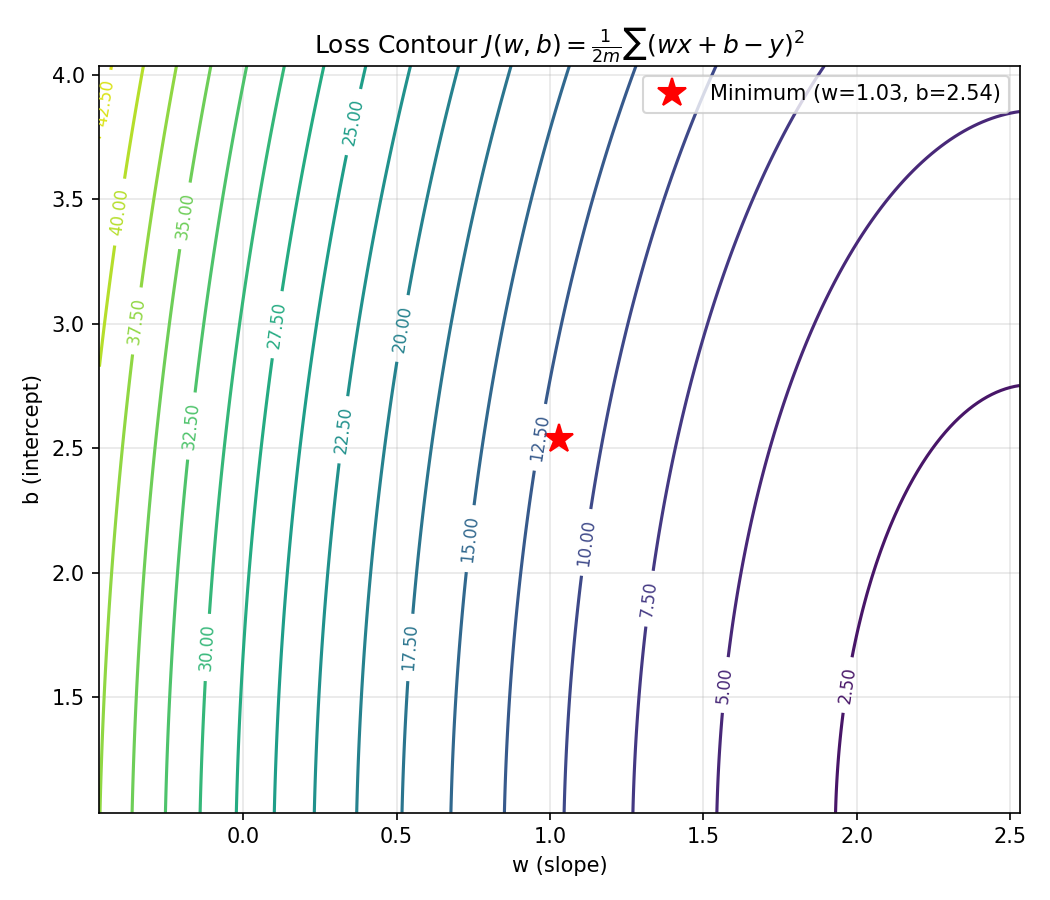
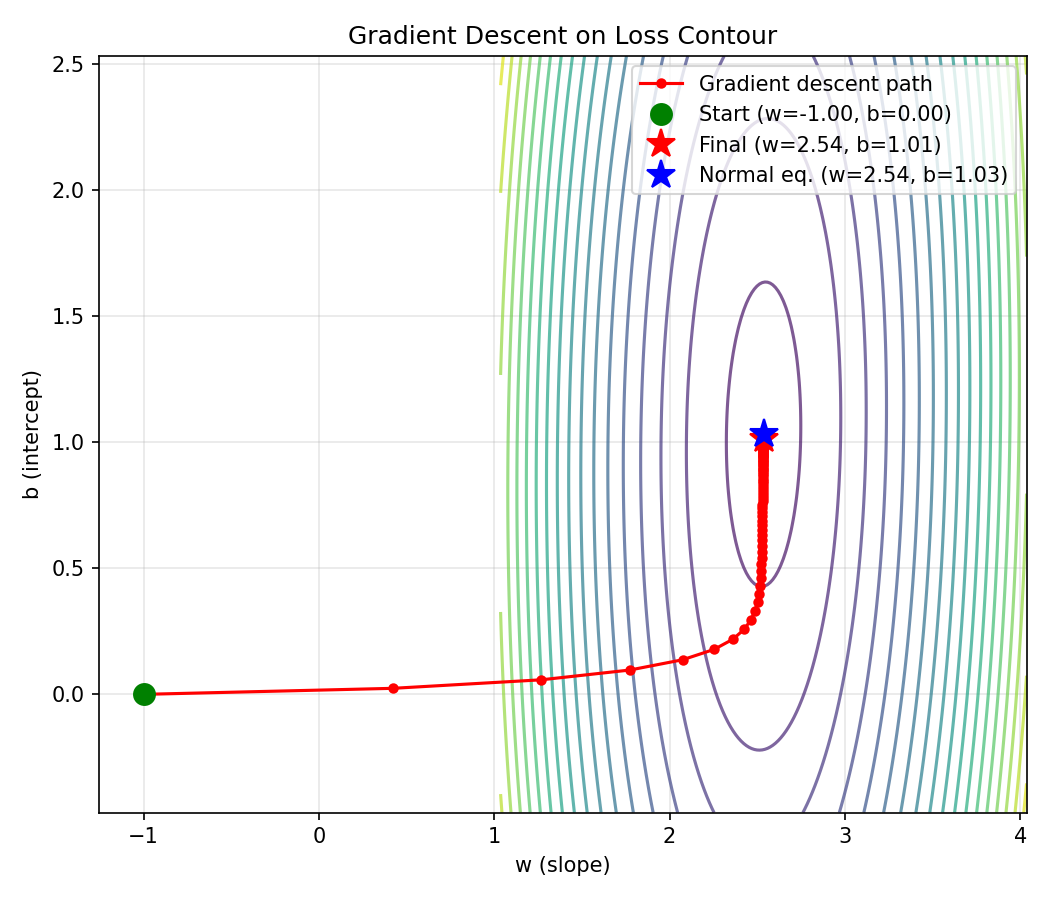
a03

Changed region(s): [[0.0, 0.0311, 1.0, 0.9956], [0.061, 0.1867, 0.0914, 0.2178]]

diff --git a/SimpleLinearRegression/Assignment03/linear_gradient_descent.py b/SimpleLinearRegression/Assignment03/linear_gradient_descent.py
@@ -8,13 +8,16 @@
 
 在完成作业一之后运行：python linear_gradient_descent.py
 """
-
+import os
 import numpy as np
 import pandas as pd
 import matplotlib.pyplot as plt
 
-CSV_PATH = "linear_regression_data.csv"
-FIG_PATH = "gradient_descent_contour.png"
+SCRIPT_DIR = os.path.dirname(os.path.abspath(__file__))
+DATA_DIR = os.path.join(SCRIPT_DIR, "..", "data") 
+#os.makedirs(DATA_DIR,exist_ok=True)
+CSV_PATH = os.path.join(DATA_DIR,"linear_regression_data.csv")
+FIG_PATH = os.path.join(DATA_DIR,"loss_contour.png")
 
 # 梯度下降超参数
 LEARNING_RATE = 0.05
@@ -31,7 +34,7 @@ def load_data(csv_path=CSV_PATH):
 def compute_loss(w, b, x, y):
     """计算 J(w, b) = (1 / 2m) * sum((w*x + b - y)^2)。"""
     # TODO：实现损失函数
-    raise NotImplementedError
+    return (np.sum((np.dot(x,w)+b-y)**2))/(2*x.shape[0])
 
 
 def normal_equation_solution(x, y):
@@ -48,7 +51,11 @@ def normal_equation_solution(x, y):
 def compute_gradients(w, b, x, y):
     """返回偏导数 (dJ/dw, dJ/db)。"""
     # TODO：自行推导并实现 J 对 w 和 b 的梯度
-    raise NotImplementedError
+    err=np.dot(x,w)+b-y
+
+    db=np.sum(err)/x.shape[0]
+    dw=x.T@(err)/x.shape[0]
+    return dw,db
 
 
 def gradient_descent(x, y, lr=LEARNING_RATE, n_iterations=N_ITERATIONS, init_w=INIT_W, init_b=INIT_B):
@@ -57,8 +64,9 @@ def gradient_descent(x, y, lr=LEARNING_RATE, n_iterations=N_ITERATIONS, init_w=I
 
     for _ in range(n_iterations):
         # TODO：计算 (w, b) 处的梯度，并执行一步梯度下降
-        pass
-
+        dw,db=compute_gradients(w,b,x,y)
+        w=w-lr*dw
+        b=b-lr*db
         history.append((w, b, compute_loss(w, b, x, y)))
 
     return w, b, history
@@ -75,7 +83,7 @@ def draw_contour_with_path(x, y, history, save_path=FIG_PATH):
 
     # TODO：在 (W, B) 上计算损失矩阵 Z，方法与作业二相同。
     #       请勿使用 Python 的 for 循环；请使用 NumPy 的广播机制。
-    Z = None  # 用你的代码替换此处
+    Z = (1/2)*np.mean((W[:,:,None]*x[None,None,:]+B[:,:,None]-y[None,None,:])**2,axis=2)
 
     w_path = [h[0] for h in history]
     b_path = [h[1] for h in history]
@@ -101,7 +109,6 @@ def main():
     w_final, b_final, history = gradient_descent(x, y)
     w_opt, b_opt = normal_equation_solution(x, y)
 
-    print(f"Gradient descent result: w={w_final:.4f}, b={b_final:.4f}")
     print(f"Normal equation solution: w={w_opt:.4f}, b={b_opt:.4f}")
     print(f"Final loss: J={history[-1][2]:.4f}")
     print(f"Optimal loss: J={compute_loss(w_opt, b_opt, x, y):.4f}")